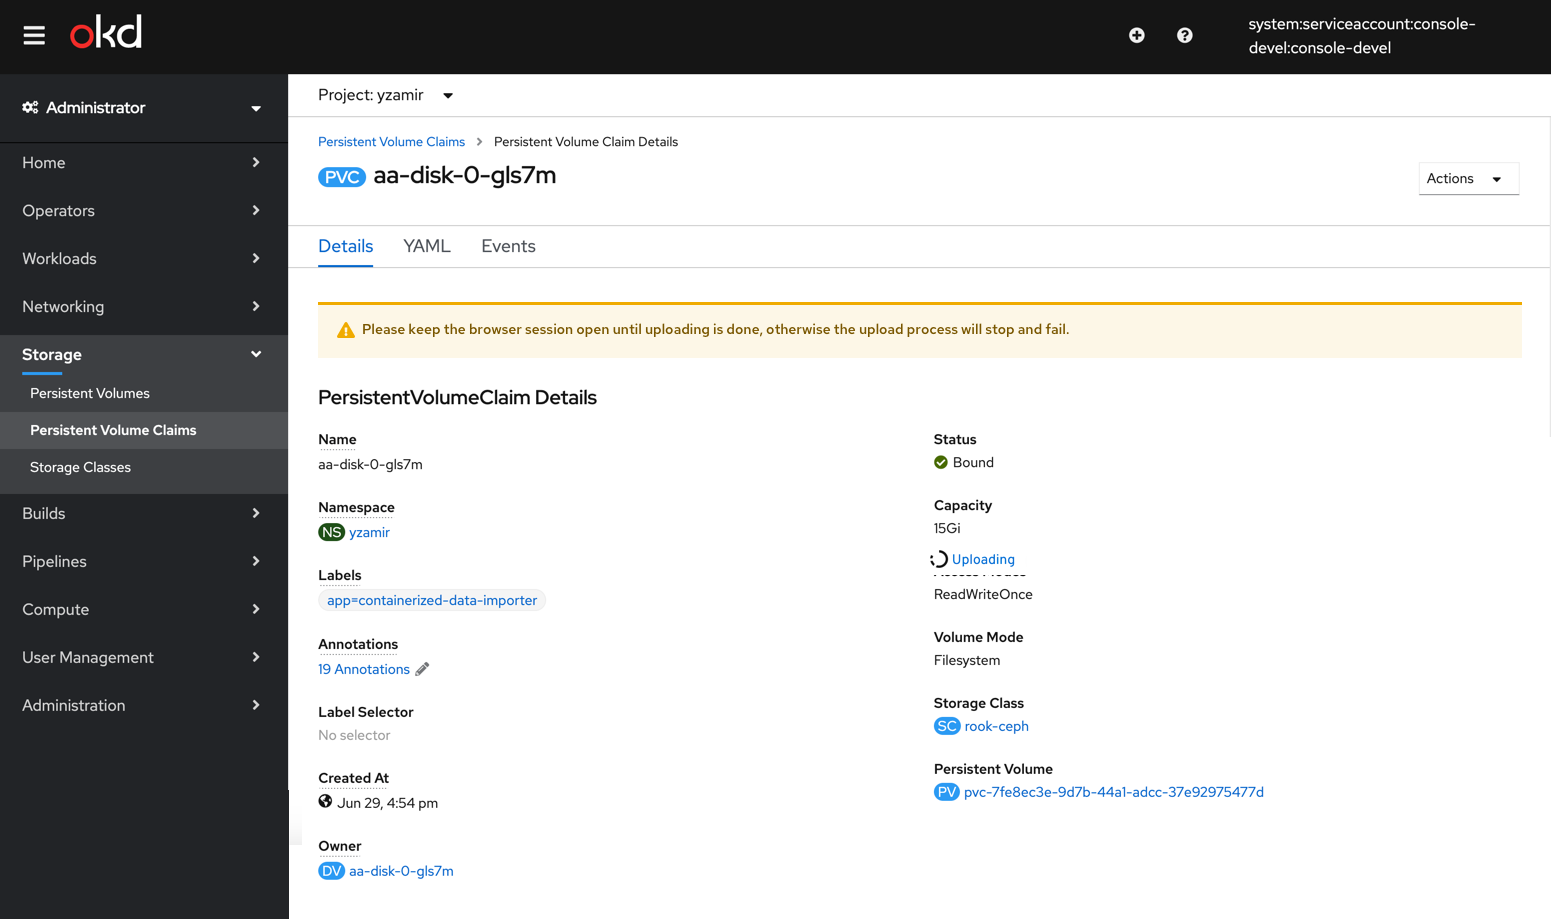
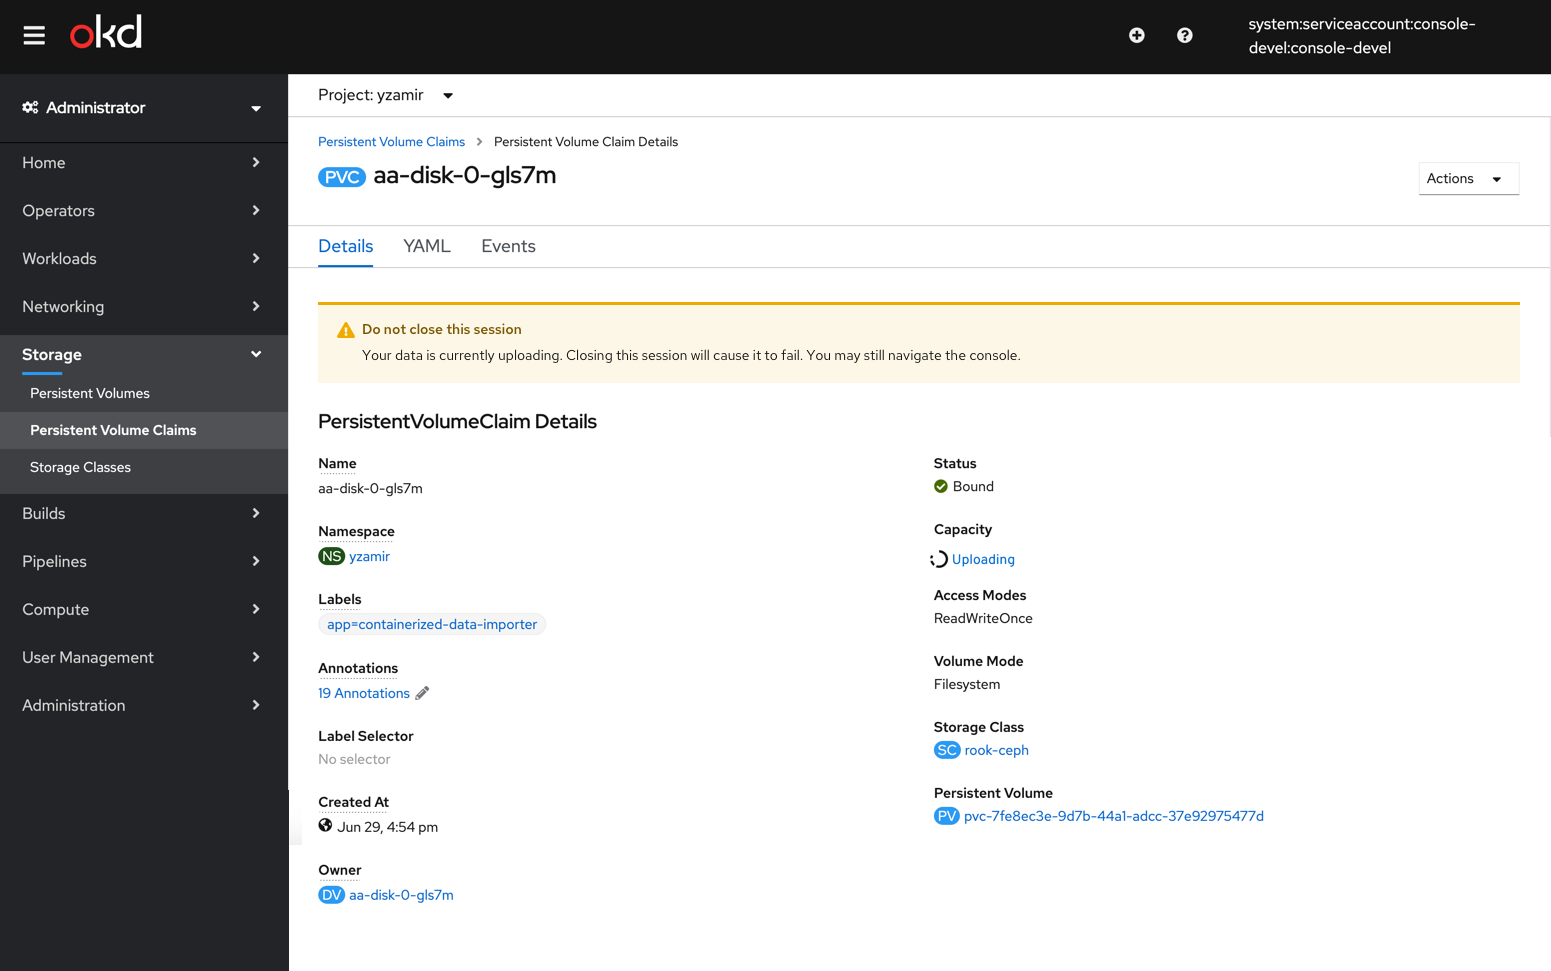
warning updates

diff --git a/designs/virtualization/4.6/Upload-image-prior-to-creating-VM/Upload Image prior to creating vm.md b/designs/virtualization/4.6/Upload-image-prior-to-creating-VM/Upload Image prior to creating vm.md
@@ -2,9 +2,9 @@
 parent: Virtualization
 version: 4.6
 ---
-# Upload Image prior to creating a VM
+# Upload Image (data source) prior to creating a VM
 
-This PR deals with when a user wants to upload an image prior to creating a virtual machine.
+This PR deals with when a user wants to upload an image (data source) prior to creating a virtual machine.
 It needs to be accomplished via the storage/PVC area.
 It should ensure the user understands what the backing PVC does but does not remove the Disk terminology.
 
@@ -15,14 +15,13 @@ By creating a dropdown and adding this new action, we'll highlight this action a
 ![PVC list with drop down button](img/PVC-dropdown.png)
 
 They will get to a new upload screen with an inline info alert that says this PVC will be created using a DataVolume through Container Data importer (CDI).
-User chooses an image to upload and fills in the PVC details: Name, size, storage class, access mode. Some of the fields can be filled out but editing will be optional as well.
+User chooses an image (data source) to upload and fills in the PVC details: Name, size, storage class, access mode. Some of the fields can be filled out but editing will be optional as well.
 
 ![browse to upload](img/Upload-data-to-pvc-1.png)
 
-After the user clicks ‘Upload’ they will get to the new installing screen where a spinner symbplyzes the PVC is currently being created.
-
-The status is shown and updates in real time on the upload screen.
-We'll include a warning notification with a request to keep the browser instance open until uploading is done, otherwise the upload process will stop and fail. We'll provide a link to view the PVCs Details page.
+After the user clicks ‘Upload’ they will get to the new installing screen where a progress bar symbplyzes the upload progress. The status is shown and updates in real time.
+We'll include a warning notification with a request to keep the browser instance open until uploading is done, otherwise the upload process will stop and fail. Users may still navigate the console, though.
+We'll provide a button to view the Persistent Volume Claim details and a link to cancel the upload process.
 
 ![In between states and upload in progress explanation](img/in-between-state2.png)
 
